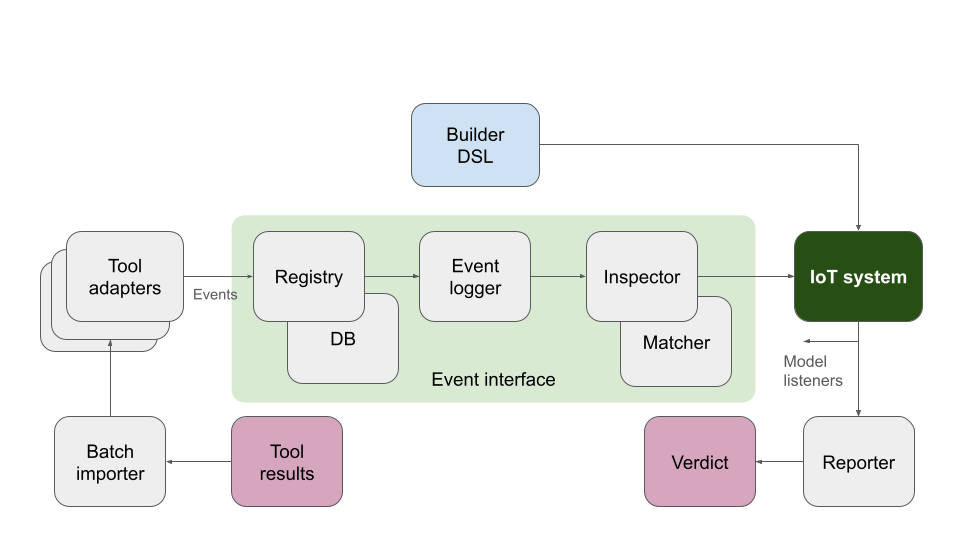
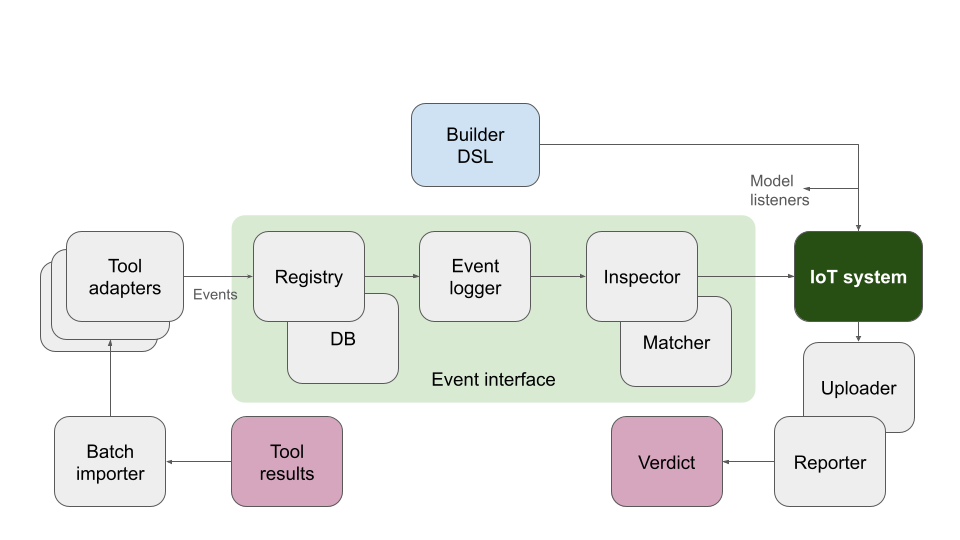
Updated architecture documentation, no external DB and Uploader

diff --git a/documentation/architecture/README.md b/documentation/architecture/README.md
@@ -25,10 +25,9 @@ Main components in the architecture diagram are the following:
    `EventInterface` class. These consume _Events_ (see [`common`](Common.md) sub-module), process them, and
    finally update the system model.
 
-   * **Registry**: Provides long-term event storage in a database.
+   * **Registry**: Provides short-term event storage in a database.
      Allows users to reload stored events.
      Main class: `Registry`.
-     This component will be replaced or removed by something supporting uploading to cloud storage (opt-in, of course).
 
    * **Event logger**: Stores events and the properties they change
      so that the reason for property changes can be retrieved later.
@@ -45,6 +44,9 @@ Main components in the architecture diagram are the following:
 
  * **Reporter**: Reads the IoT system and its properties to output
    textual or graphical results with verdicts.
+
+ * **Uploader**: Uploads the IoT system and events into cloud storage,
+   if instructed from command line.
 
 ## Module documentation
 
